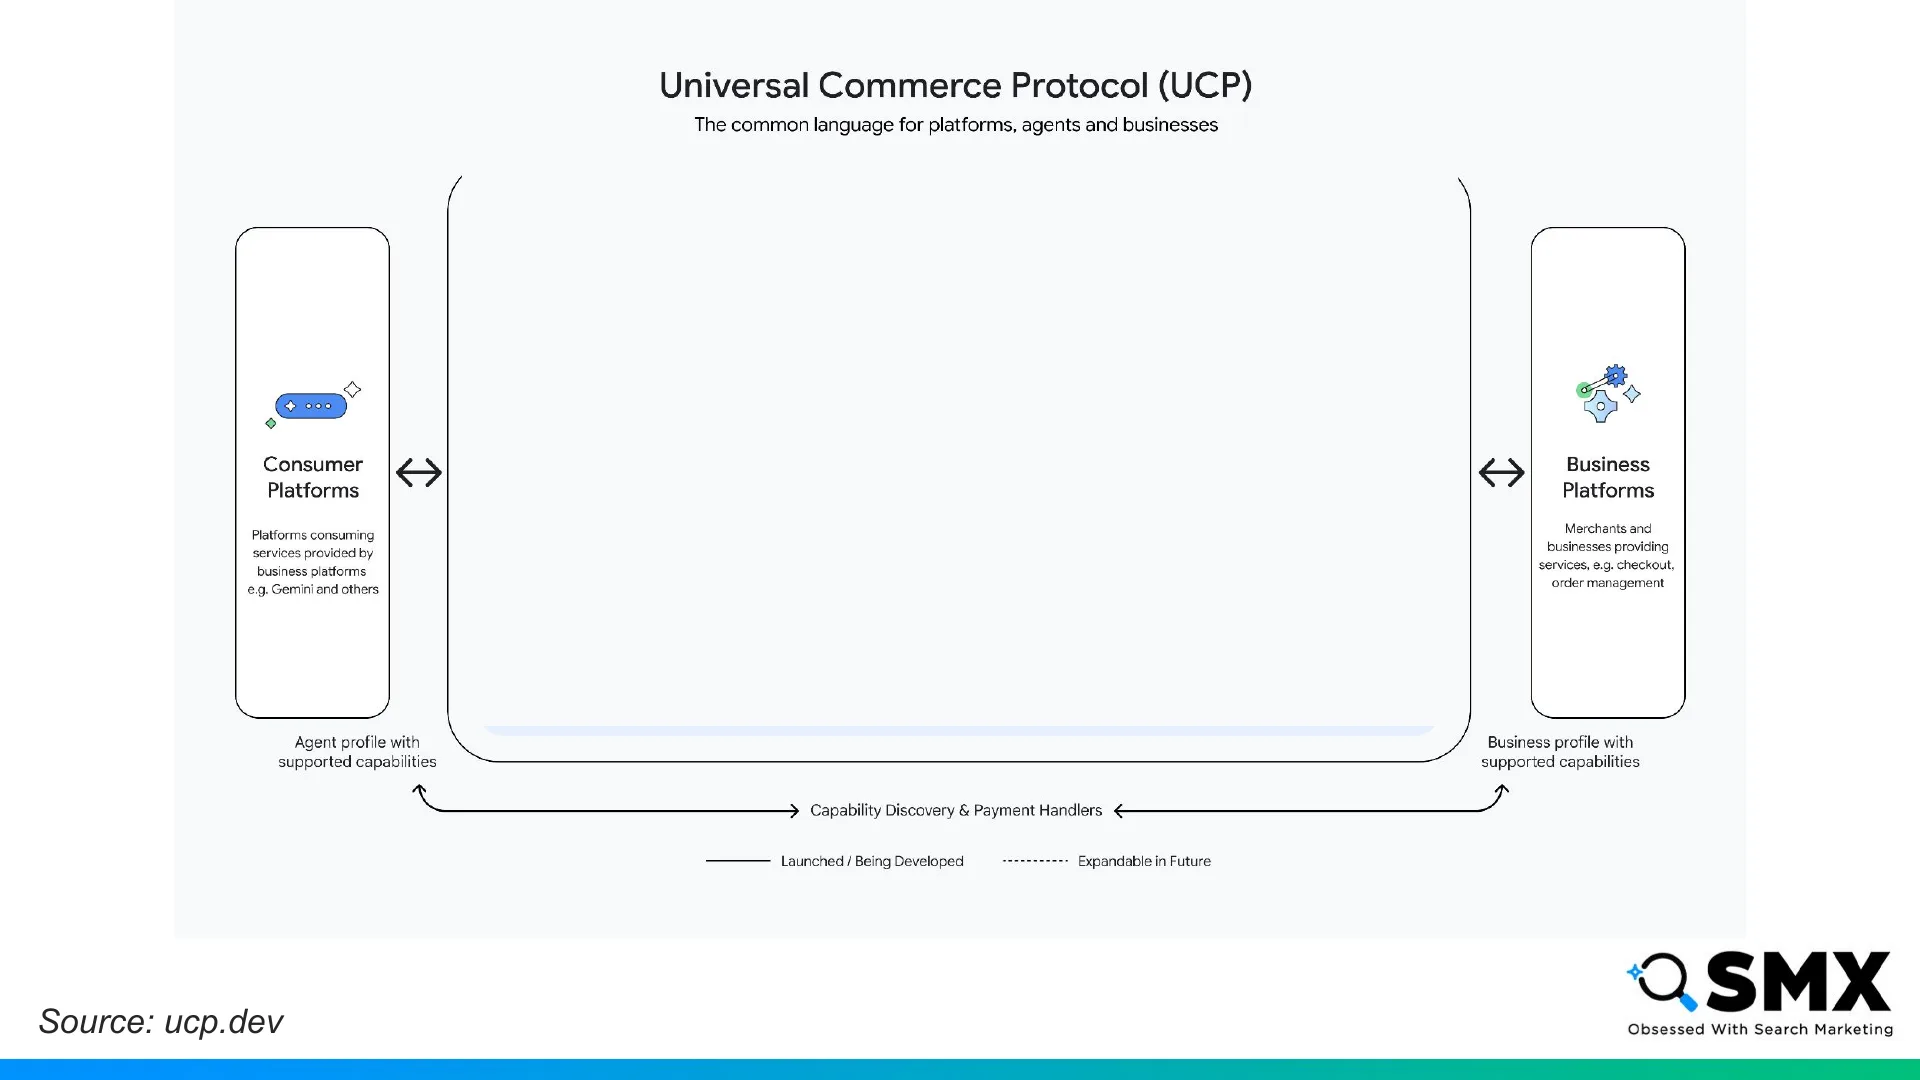
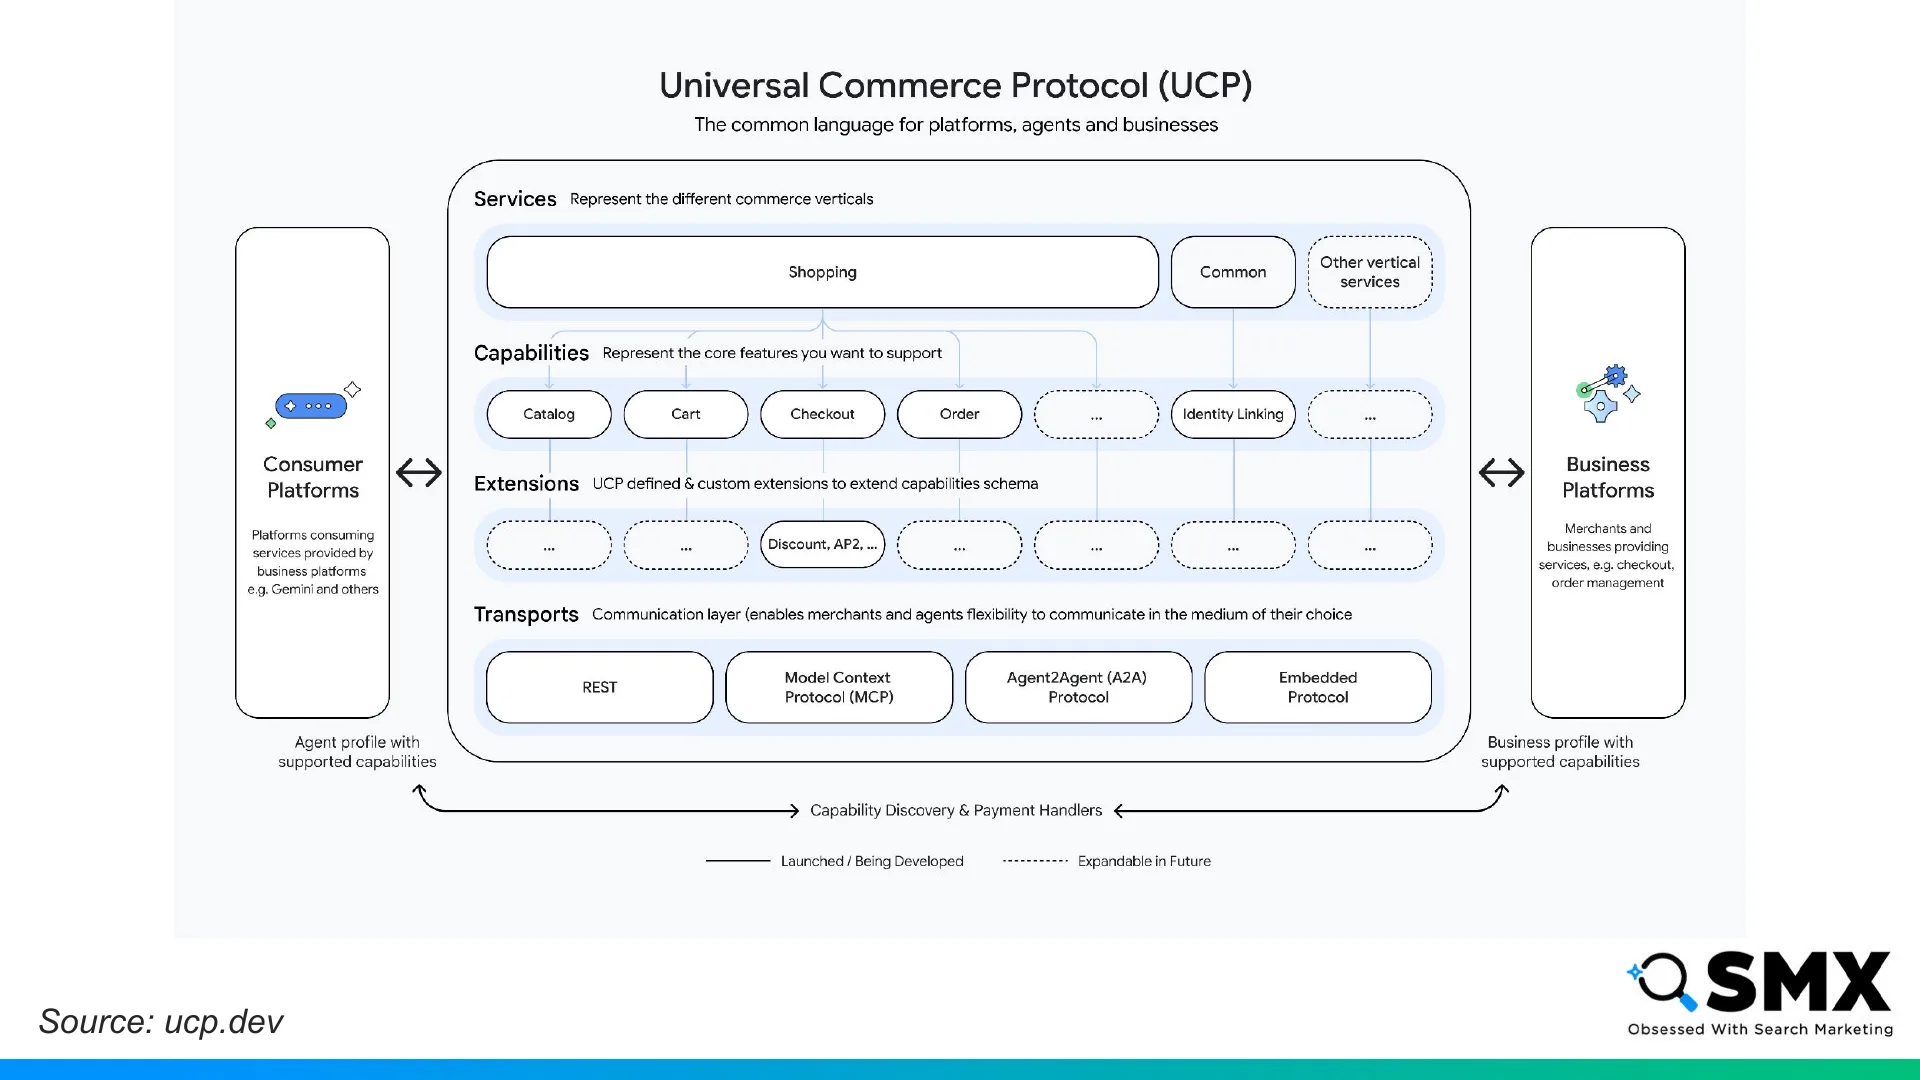
talk: use flattened slides 10 & 11 from the PDF Version deck
The baseline export captured slide 10 (UCP diagram) with an empty core and
slide 11 (agentic commerce spectrum) with a stray confetti emoji — both
mid-animation states. Swap in the final, flattened versions from the "PDF
Version" deck, which read better, and fix their alt text. build.mjs now
sources those two pages via an IMAGE_OVERRIDES map so rebuilds reproduce it.

diff --git a/talks/smx-advanced-2026/index.html b/talks/smx-advanced-2026/index.html
@@ -325,7 +325,7 @@
     <figure>
       <div class="frame">
         <img src="slides/slide-10.webp" width="1920" height="1080"
-             alt="Slide 10: Source: ucp.dev" loading="lazy" decoding="async">
+             alt="Slide 10: Universal Commerce Protocol (UCP) — services, capabilities, extensions, and transports" loading="lazy" decoding="async">
         <a class="badge" href="#slide-10" aria-label="Slide 10, link">10</a>
         <button class="present-here" type="button" data-go="10" aria-label="Present from slide 10" title="Present from here">⤢</button>
       </div>
@@ -346,7 +346,7 @@
     <figure>
       <div class="frame">
         <img src="slides/slide-11.webp" width="1920" height="1080"
-             alt="Slide 11: The agentic commerce spectrum 🎉" loading="lazy" decoding="async">
+             alt="Slide 11: The agentic commerce spectrum" loading="lazy" decoding="async">
         <a class="badge" href="#slide-11" aria-label="Slide 11, link">11</a>
         <button class="present-here" type="button" data-go="11" aria-label="Present from slide 11" title="Present from here">⤢</button>
       </div>